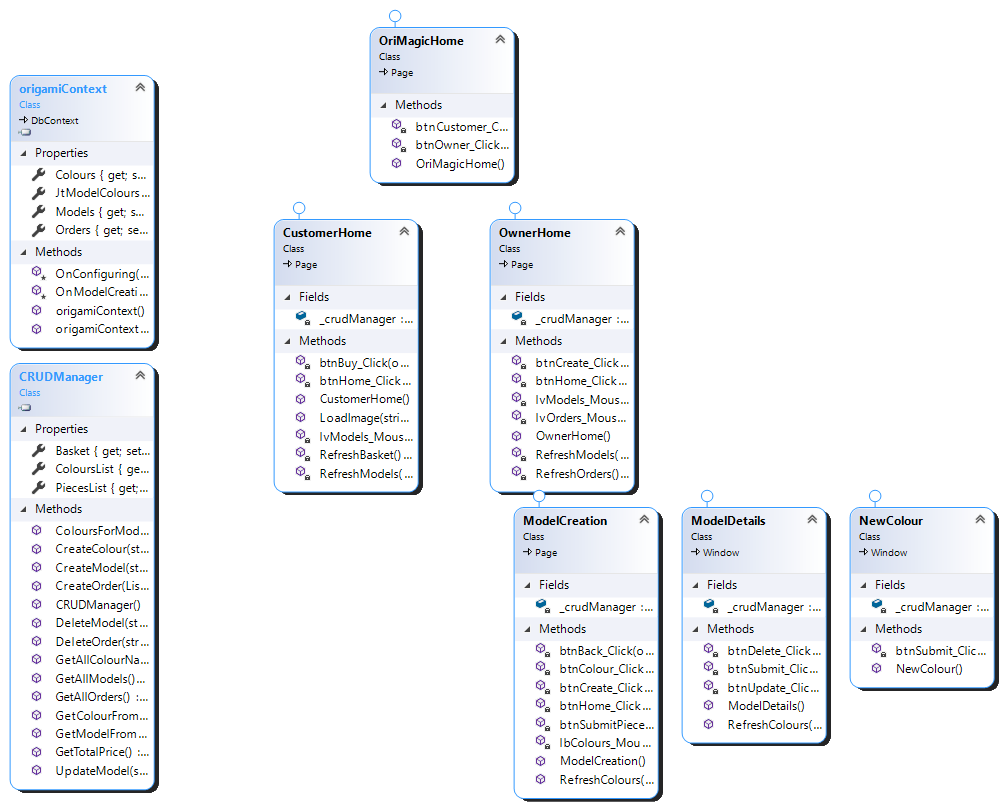
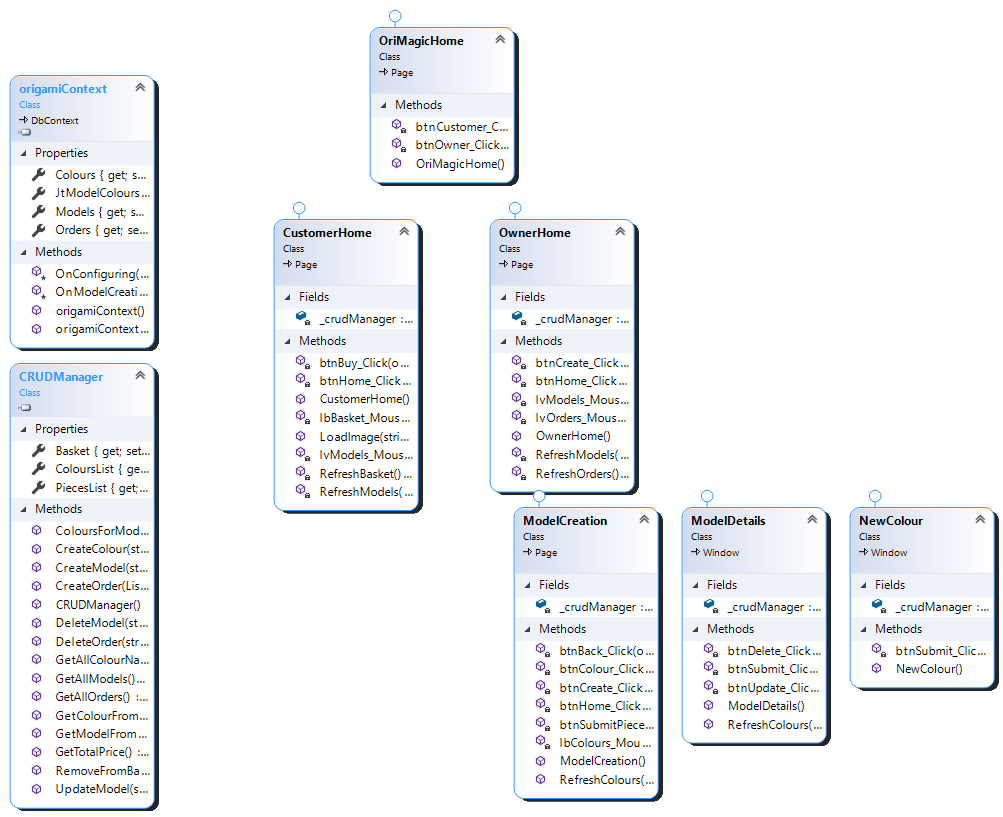
Finish sprint 3. Updated README with review and retrospective

diff --git a/OrigamiOrdering/OrigamiOrdering_GUI/CustomerHome.xaml b/OrigamiOrdering/OrigamiOrdering_GUI/CustomerHome.xaml
@@ -30,7 +30,7 @@
                 </GridView>
             </ListView.View>
         </ListView>
-        <ListBox x:Name="lbBasket" Margin="0,0,10,0"/>
+        <ListBox x:Name="lbBasket" Margin="0,0,10,0" MouseDoubleClick="lbBasket_MouseDoubleClick"/>
         <Label x:Name="lblPrice" Content="" HorizontalAlignment="Left" Margin="145,27,0,0" Grid.Row="1" VerticalAlignment="Top"/>
     </Grid>
 </Page>

diff --git a/OrigamiOrdering/OrigamiOrdering_GUI/CustomerHome.xaml.cs b/OrigamiOrdering/OrigamiOrdering_GUI/CustomerHome.xaml.cs
@@ -92,5 +92,19 @@ namespace OrigamiOrdering_GUI
                 MessageBox.Show("Please enter a number!");
             MessageBox.Show("Order has been placed!");
         }
+
+        private void lbBasket_MouseDoubleClick(object sender, MouseButtonEventArgs e)
+        {
+            try
+            {
+                _crudManager.RemoveFromBasket(lbBasket.SelectedItem.ToString());
+                RefreshBasket();
+            }
+            catch (Exception) 
+            {
+                //Left blank intentionally, as the program won't crash on double clicking
+                //without selecting an item
+            }
+        }
     }
 }

diff --git a/OrigamiOrdering/OrigamiOrdering_Business/CRUDManager.cs b/OrigamiOrdering/OrigamiOrdering_Business/CRUDManager.cs
@@ -183,5 +183,11 @@ namespace OrigamiOrdering
             }
             return sum;
         }
+
+        public void RemoveFromBasket(string modelToRemove)
+        {
+            var removal = Basket.Where(b => b.ModelName == modelToRemove).FirstOrDefault();
+            Basket.Remove(removal);
+        }
     }
 }

diff --git a/README.md b/README.md
@@ -5,6 +5,17 @@
 ### Application Description:
 The application will provide an interface for an origami shop owner to sell their products. They will be able to create new models with high levels of detail, including model complexity and number of units, colours needed, etc. They will also be able to remove models which are no longer sold, and modify models to make changes as well. A buyer interface for the application will also be created to allow buyers to peruse the models being sold and add them to a basket. When an order is placed, it will show in the shop owner view.
 
+### Project Goals:
+
+* The project will emulate the development of software using Agile methodologies.
+* The application must have:
+     * Graphical User Interface frontend 
+     * Database backend
+     * Business layer to connect the two 
+     * The business layer must be fully tested
+* The application must be well documented.
+* A final project presentation must also be given.
+
 ## Class Diagrams
 ---
 ![image](https://github.com/Dragonkid1996/OriMagicOrderManagement/blob/main/ProjectImages/OverallClassDiagram.png)
@@ -100,7 +111,11 @@ By the end of this sprint I intended to have a fully functioning application, so
 
 #### Sprint Review
 
+The application now works as expected, and does not crash due to unhandled exceptions. It is at a point where it can take new orders from a customer, remove orders once they are completed, create new models, update and remove models if needs be, and view model details so that the owner can view at any time. They can also insert new colours into the database, and use them when creating new models.
+
 #### Sprint Retrospective
+
+The sprint went really smoothly, as I managed to finish everything I needed to on time, including handling exceptions, which I originally hadn't expected to fit into the sprint. The only blocker I had was that I kept adding new user stories to my day, as I was finished with the user stories I had set, and kept finding new features that I hadn't originally thought of when planning the project.
 
 ![image](https://github.com/Dragonkid1996/OriMagicOrderManagement/blob/main/ProjectImages/ProjectBoardSprint3.PNG)
 
